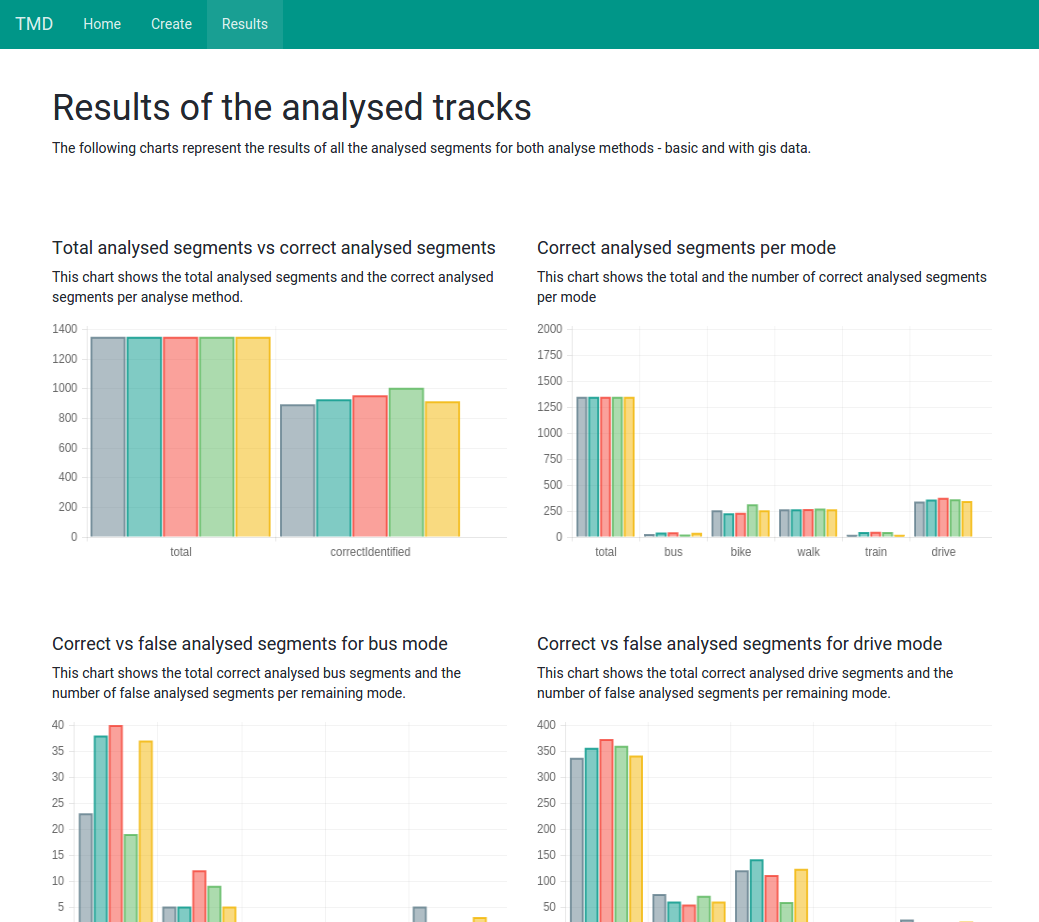
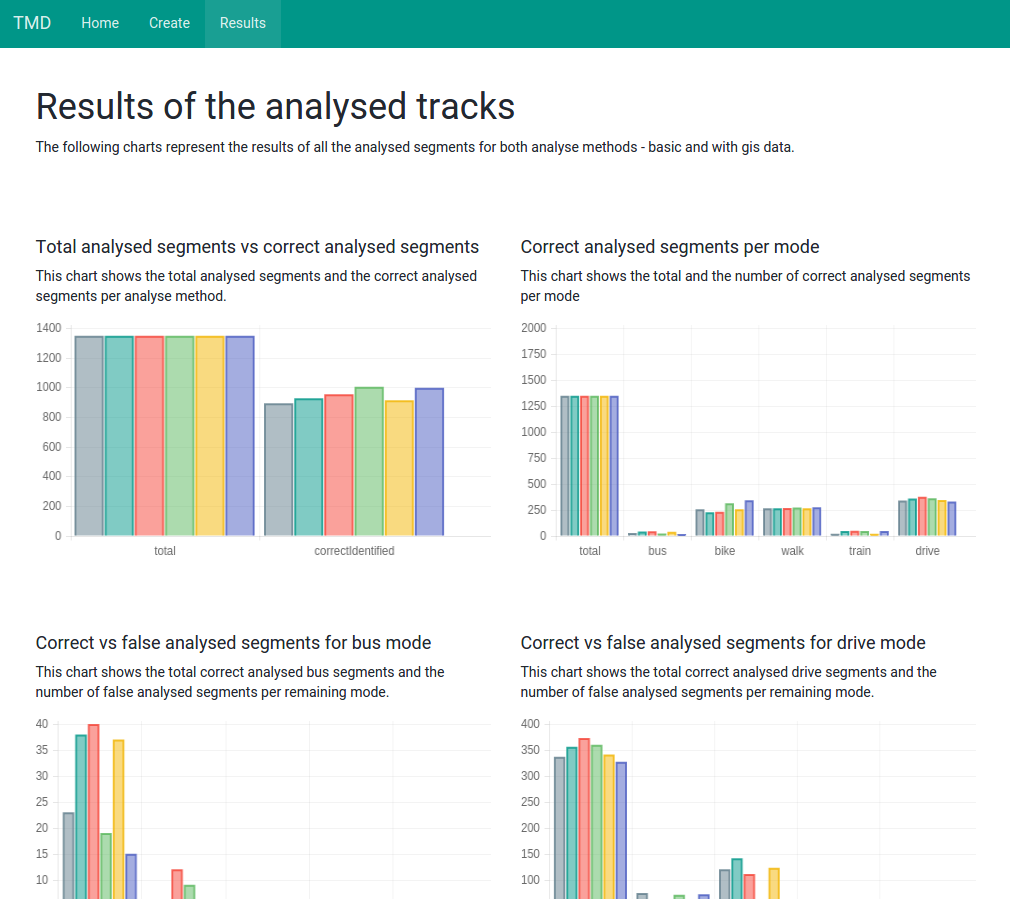
added analyse without stoprate to results

diff --git a/document/content/main/results.tex b/document/content/main/results.tex
@@ -30,25 +30,27 @@ Mit GIS-Daten ohne Beschl. & 70,18 & 59,65 & 71,93 \\ \hline
 Mit GIS-Daten ohne Gleis & 64,91 & 63,16 & 68,42 \\ \hline
 Mit GIS-Daten ohne Autobahn & 66,67 & 61,40 & 70,18 \\ \hline
 Mit GIS-Daten ohne Bushaltest. & 64,91 & 61,40 & 70,18 \\ \hline
+Mit GIS-Daten ohne Stoprate & 71,93 & 64,91 & 75,44 \\ \hline
 \end{tabular}
 \caption{Genauigkeit von Entscheidungsbäumen mit verschiedenen Algorithmen und Trainingsdatenvarianten}
 \label{dt-calculation-methods}
 \end{table}
 
-Was die Tabelle \ref{dt-calculation-methods} zeigt, ist dass sich die zu erwartende Erkennungsrate zwischen 61\% und fast 74\% befindet. Dabei wird mit dem Gini-Index das beste Ergebnis (70,31\% im Schnitt) und mit der Zugewinn-Rate (im Schnitt 62,35\%) das Schlechteste erzielt. Der Informationsgewinn liegt mit 65,18\% im Mittelfeld.
+Was die Tabelle \ref{dt-calculation-methods} zeigt, ist dass sich die zu erwartende Erkennungsrate zwischen 61\% und fast 74\% befindet. Dabei wird mit dem Gini-Index das beste Ergebnis (70,68\% im Schnitt) und mit der Zugewinn-Rate (im Schnitt 62,53\%) das Schlechteste erzielt. Der Informationsgewinn liegt mit 65,66\% im Mittelfeld.
 
-Was sich weiters erkennen lässt, ist dass die unterschieldlichen Zusatzwerte unterschielich viel Einfluss auf die allgemeine Erkennung haben. So fällt die Erkennungsrate mit Gini-Index von 73,68\% auf 57,89\% wenn man die berechneten Mittelwerte für Geschwindigkeit und Beschleunigung nicht miteinbezieht. Die maximalen Werte für Beschleunigung und Geschwindigkeit machen sowohl zusammen als auch getrennt wenig bis keinen Unterschied für die Erkennung,  wenn man den Gini-Index verwendet. 
+Was sich weiters erkennen lässt, ist dass die unterschieldlichen Zusatzwerte unterschielich viel Einfluss auf die allgemeine Erkennung haben. So fällt die Erkennungsrate mit Gini-Index von 73,68\% auf 57,89\% wenn man die berechneten Mittelwerte für Geschwindigkeit und Beschleunigung nicht miteinbezieht. Die maximalen Werte für Beschleunigung und Geschwindigkeit machen sowohl zusammen als auch getrennt wenig bis keinen Unterschied für die Erkennung,  wenn man den Gini-Index verwendet. Interessant ist hingegen, dass die GIS-Methode ohne Stoprate auf 75,44\% kommt.
 
 Bei den Werten für die Berechnung mittels Informationsgewinn lässt sich noch hervorheben, dass die Testdatenvarianten ohne Beschleunigungswerte bzw. ohne mittlere Beschleunigung Erkennungsraten über 70\% berechnet wurden. 
 
 Erkennen lässt sich weiters, dass zwischen der Variante mit und ohne GIS-Daten nur 2\% Prozent liegen und diese im Falle der Zugewinn-Rate sogar für die Variante ohne GIS-Daten sprechen. Diese Werte sind jedoch nur auf Basis der Testdaten errechnet und müssen nicht mit der tatsächlichen Erkennungsrate übereinstimmen. Deshalb werden im nächsten Abschnitt die Resultate des Prototyps genauer beleuchtet. In weiterer Folgen wurden auf Grund ihres guten Abschneidens die Entscheidungsbäume, welche mit dem Gini-Index generiert wurden, verwendet.
 
 \section{Analyse mit dem Prototyp}
-Für die Analyse mit Hilfe des Prototyps wurde neben den zwei Analysemethoden mit und ohne GIS-Daten noch drei weitere Entscheidungsbäume ausgewählt. Die ausgewählten Entscheidungsbäume wurden auf Grund ihres Abschneidens in Abschnitt \ref{rapidMinerResultat} \nameref{rapidMinerResultat} ausgewählt und sind folgende:
+Für die Analyse mit Hilfe des Prototyps wurde neben den zwei Analysemethoden mit und ohne GIS-Daten noch vier weitere Entscheidungsbäume ausgewählt. Die ausgewählten Entscheidungsbäume wurden auf Grund ihres Abschneidens in Abschnitt \ref{rapidMinerResultat} \nameref{rapidMinerResultat} ausgewählt und sind folgende:
 \begin{pitemize}
 \item mit GIS-Daten ohne Maximalwerte-
 \item mit GIS-Daten ohne Mittelwerte
-\item mit GIS-Daten jedoch ohne Gleise
+\item mit GIS-Daten ohne Gleise
+\item mit GIS-Daten ohne Stopprate
 \end{pitemize}
 
 \subsection{Gesamtresultate}
@@ -64,6 +66,7 @@ Mit GIS-Daten & 926 & 68,75 \\ \hline
 Mit GIS-Daten ohne Beschl. & 953 & 70,75 \\ \hline
 Mit GIS-Daten ohne Geschw. & 1.004 & 74,54 \\ \hline
 Mit GIS-Daten ohne Gleise & 912 & 67,71 \\ \hline
+Mit GIS-Daten ohne Stopprate & 997 & 74,02 \\ \hline
 \end{tabular}
 \caption{Gesamtresultate im Überblick}
 \label{my-label}
@@ -85,6 +88,7 @@ Mit GIS-Daten & 36,19 \\ \hline
 Mit GIS-Daten ohne Beschl. & 38,10 \\ \hline
 Mit GIS-Daten ohne Geschw. & 18,10 \\ \hline
 Mit GIS-Daten ohne Gleise & 35,24 \\ \hline
+Mit GIS-Daten ohne Stoprate & 14,29 \\ \hline
 \end{tabular}
 \caption{Richtig erkannte Bus-Segmente}
 \label{result-bus}
@@ -103,6 +107,7 @@ Mit GIS-Daten & 82,22 \\ \hline
 Mit GIS-Daten ohne Beschl. & 86,14 \\ \hline
 Mit GIS-Daten ohne Geschw. & 83,14 \\ \hline
 Mit GIS-Daten ohne Gleise & 78,75 \\ \hline
+Mit GIS-Daten ohne Gleise & 75,52 \\ \hline
 \end{tabular}
 \caption{Richtig erkannte Auto-Segmente}
 \label{result-drive}
@@ -121,6 +126,7 @@ Mit GIS-Daten & 46,68 \\ \hline
 Mit GIS-Daten ohne Beschl. & 47,72 \\ \hline
 Mit GIS-Daten ohne Geschw. & 64,52 \\ \hline
 Mit GIS-Daten ohne Gleise & 52,70 \\ \hline
+Mit GIS-Daten ohne Gleise & 70,33 \\ \hline
 \end{tabular}
 \caption{Richtig erkannte Fahrrad-Segmente}
 \label{result-bike}
@@ -139,6 +145,7 @@ Mit GIS-Daten & 93,93 \\ \hline
 Mit GIS-Daten ohne Beschl. & 94,64 \\ \hline
 Mit GIS-Daten ohne Geschw. & 96,43 \\ \hline
 Mit GIS-Daten ohne Gleise & 93,93 \\ \hline
+Mit GIS-Daten ohne Gleise & 97,14 \\ \hline
 \end{tabular}
 \caption{Richtig erkannte ``zu Fuß``-Segmente}
 \label{resultat-foot}
@@ -157,6 +164,7 @@ Mit GIS-Daten & 91,67 \\ \hline
 Mit GIS-Daten ohne Beschl. & 93,75 \\ \hline
 Mit GIS-Daten ohne Geschw. & 91,67 \\ \hline
 Mit GIS-Daten ohne Gleise & 35,42 \\ \hline
+Mit GIS-Daten ohne Gleise & 91,67 \\ \hline
 \end{tabular}
 \caption{Richtig erkannte Zug-Segmente}
 \label{result-train}
